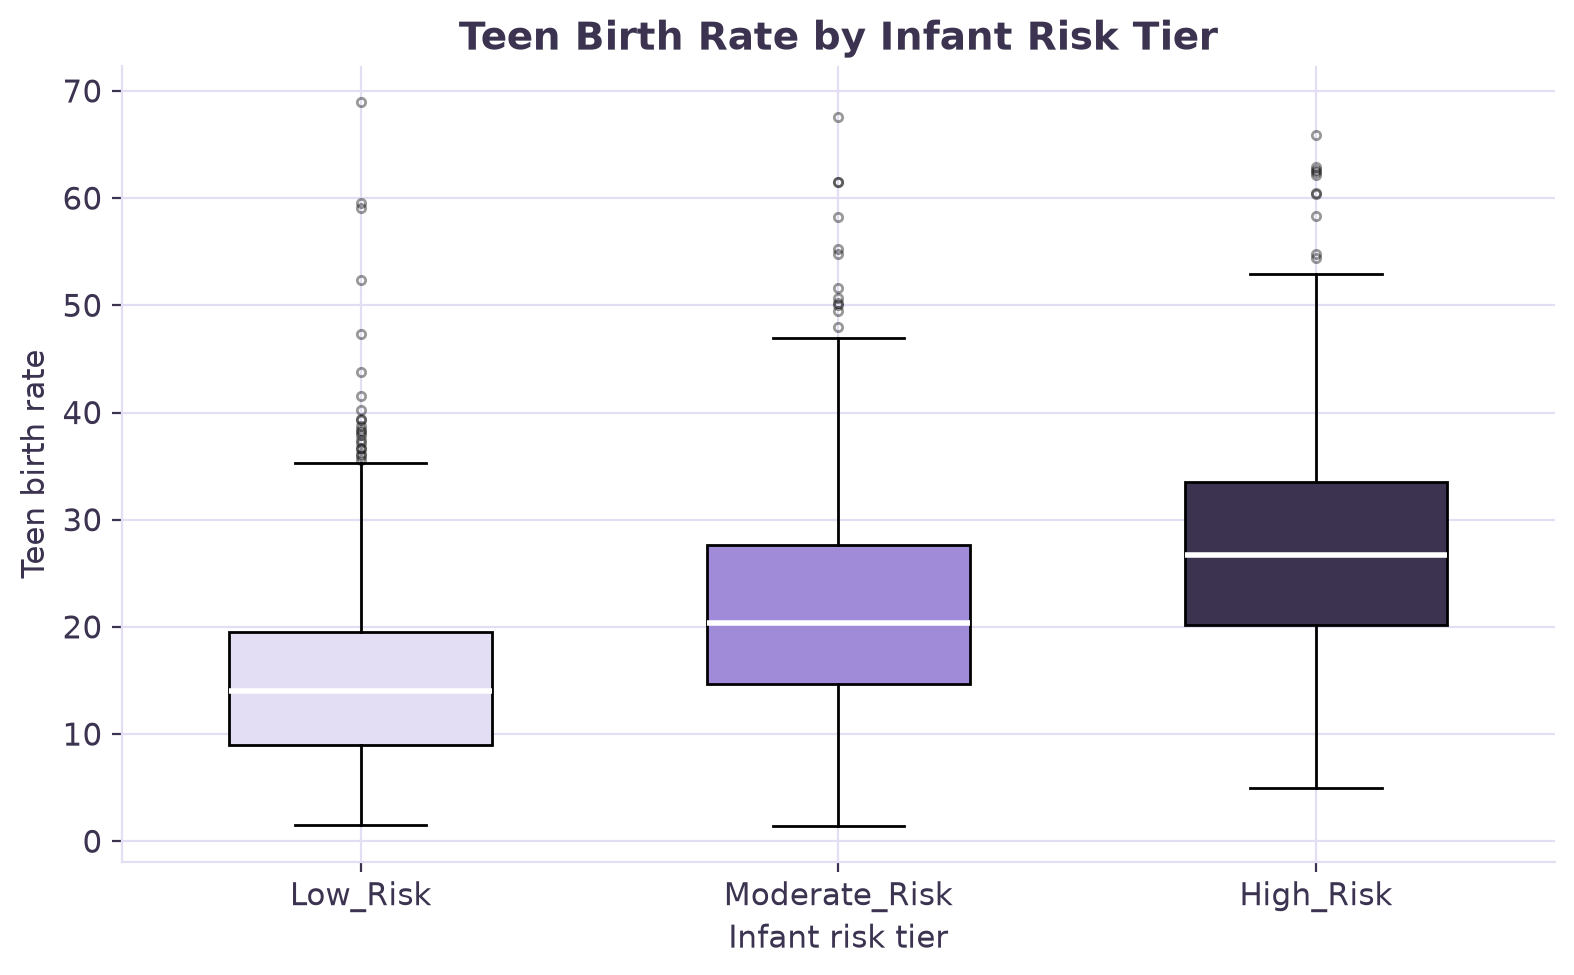
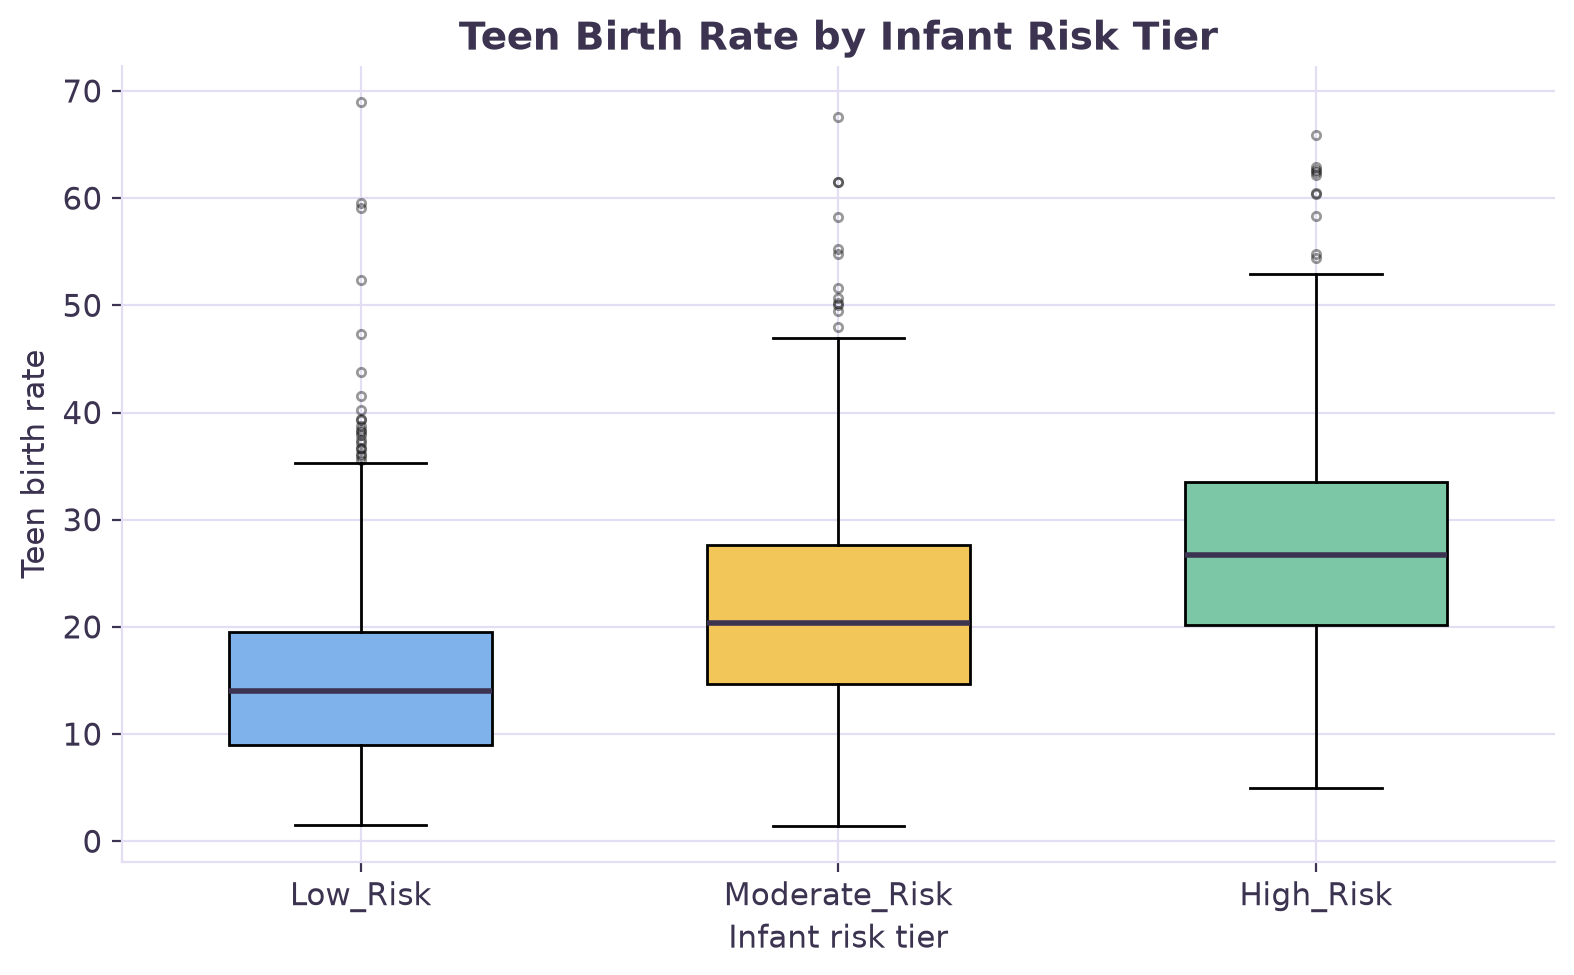
Add files via upload

Changed region(s): [[0.7471, 0.4923, 0.9339, 0.6462], [0.4358, 0.5538, 0.6226, 0.7077], [0.1245, 0.6462, 0.3113, 0.7692]]

diff --git a/make_figures.py b/make_figures.py
@@ -223,14 +223,14 @@ plt.xticks(rotation=0)
 save(fig, "fig08.png")
 
 #Teen birth rate by risk tier
-# Teen birth rate by risk tier
 fig, ax = plt.subplots(figsize=(8, 5))
 groups = [df.loc[df["infant_risk_tier"] == t, "teen_birth_rate"].dropna() for t in TIER_ORDER]
+risk_box_colors = {"Low_Risk": BLUE, "Moderate_Risk": BUTTER, "High_Risk": MINT}
 bp = ax.boxplot(groups, patch_artist=True, widths=0.55,
-                medianprops={"color": "#ffffff", "linewidth": 2},
+                medianprops={"color": INK, "linewidth": 2},
                 flierprops={"marker": "o", "markersize": 3, "alpha": 0.4})
 for patch, t in zip(bp["boxes"], TIER_ORDER):
-    patch.set_facecolor(TIER_COLORS[t])
+    patch.set_facecolor(risk_box_colors[t])
 ax.set_xticklabels(TIER_ORDER)
 ax.set_title("Teen Birth Rate by Infant Risk Tier")
 ax.set_xlabel("Infant risk tier")
